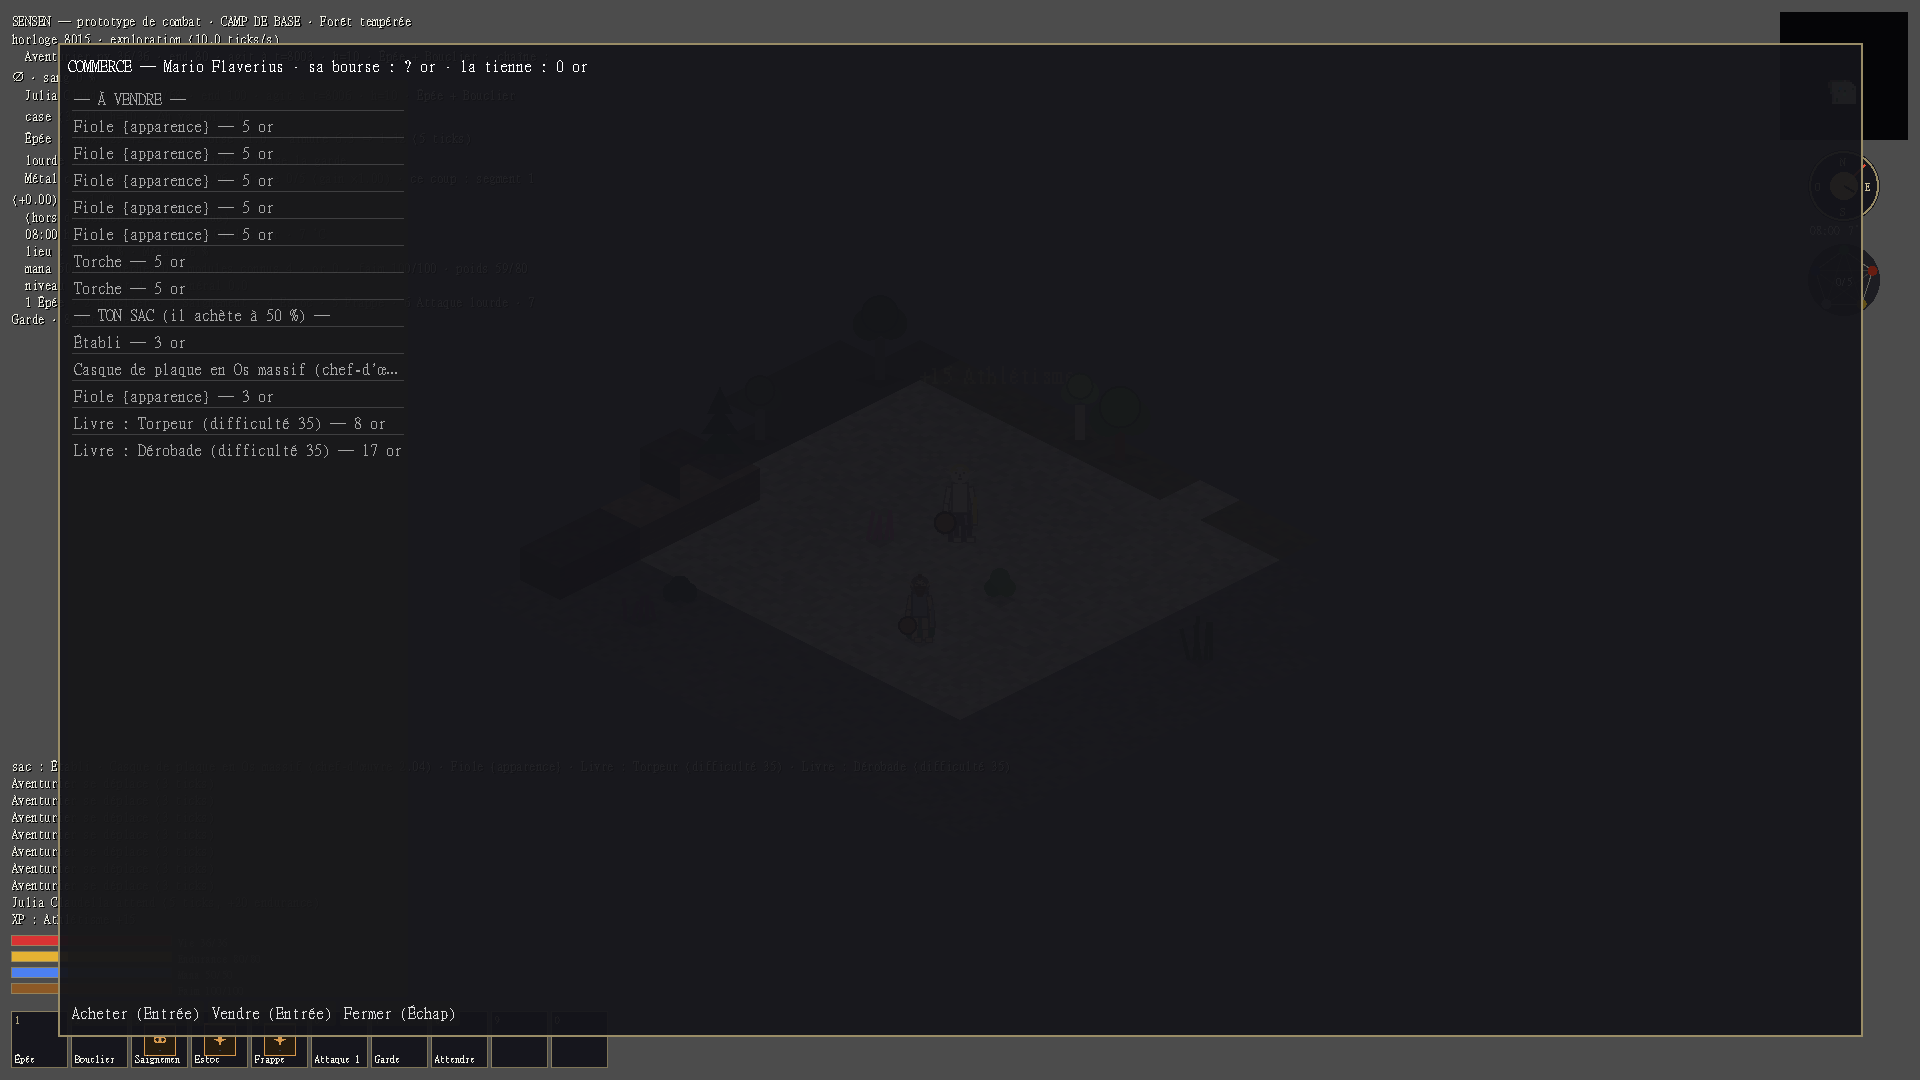
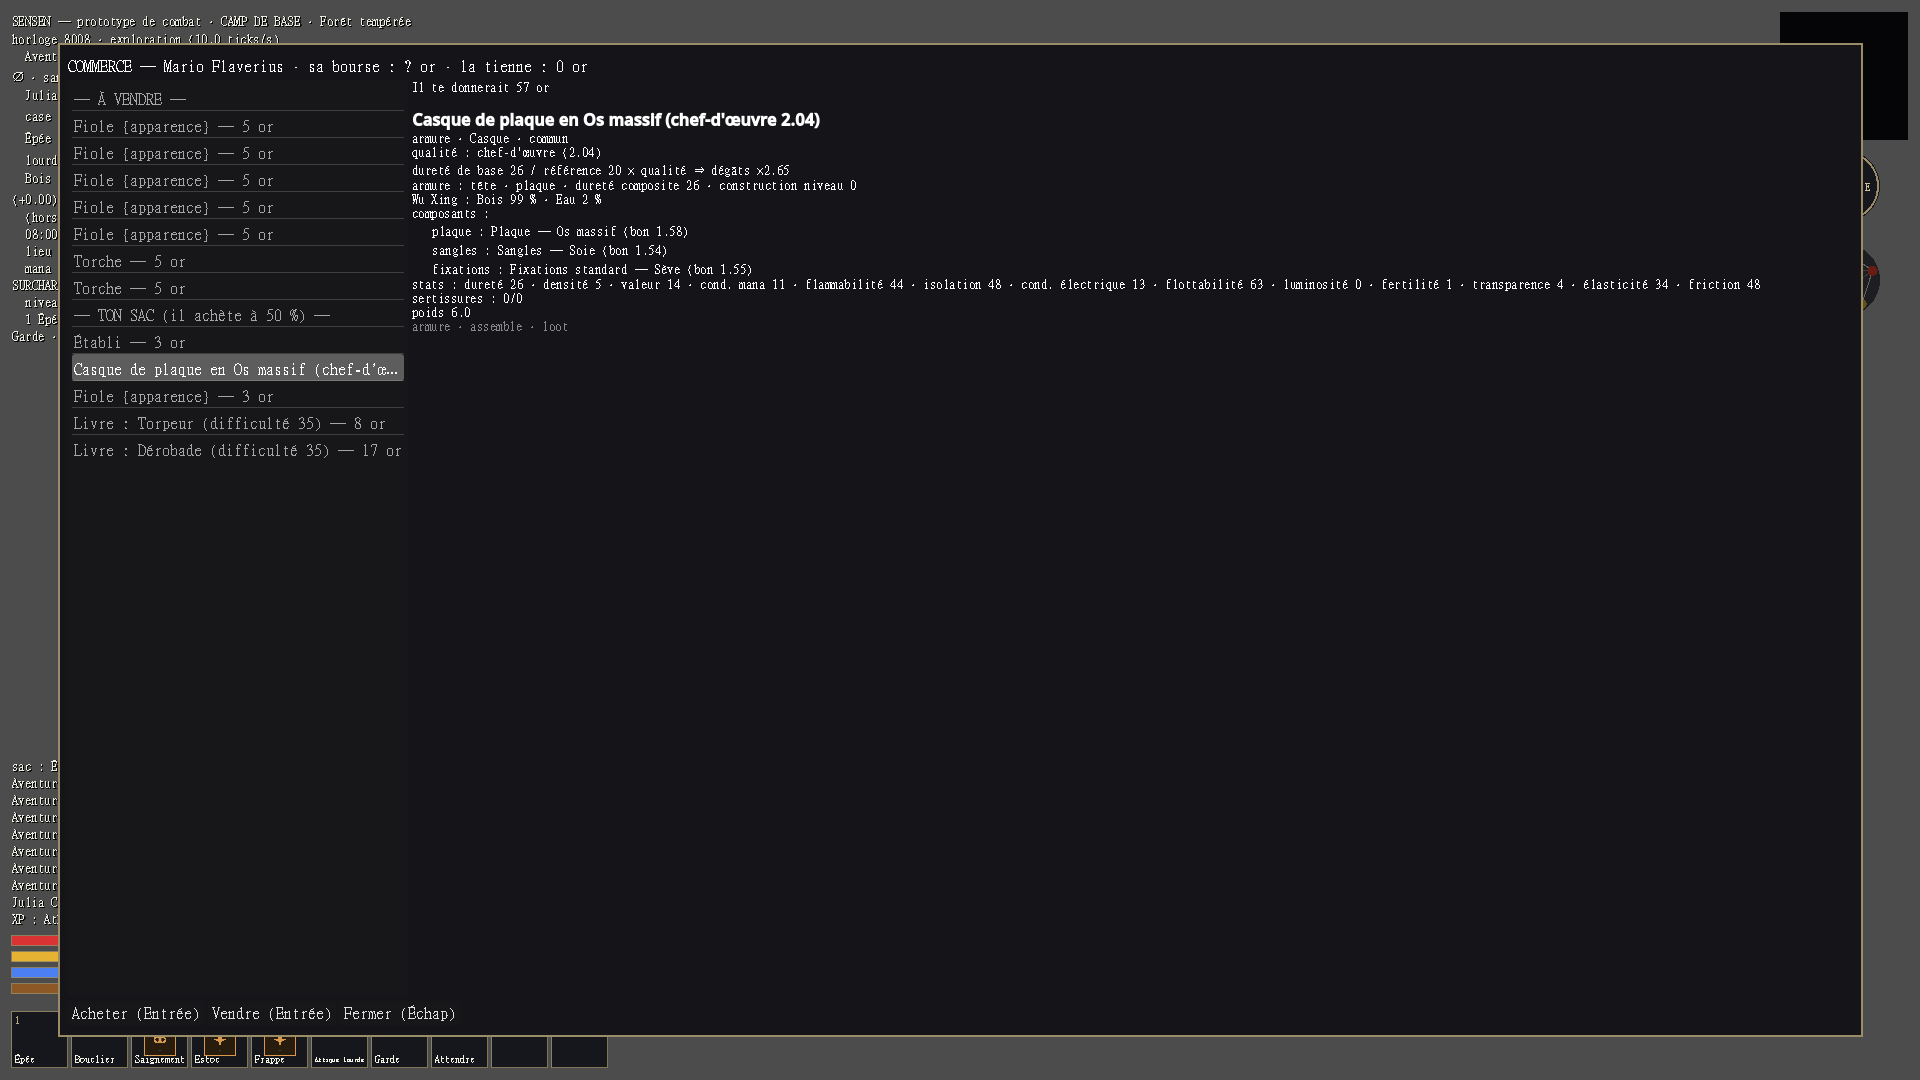
On achetait a l'aveugle, et un ecran inconnu s'ouvrait vide sous un titre faux
Les entrees achat et vente manquaient dans _montrer_detail : les deux
tiers droits de la boutique restaient noirs et on payait 17 or un livre
sans rien savoir de lui. La boutique etait aussi le seul ecran d'objets
a ne pas montrer le Wu Xing, contre ce que dit le point 65.

Et « --ecran composeur » (l'ecran s'appelle composer) ouvrait le panneau
vide sous le titre du dernier ecran construit, sans rien signaler : le
match a desormais une branche par defaut qui referme et push_error.

diff --git a/docs/08 - Technique/Écrans d'interface.md b/docs/08 - Technique/Écrans d'interface.md
@@ -145,6 +145,14 @@ Inventaire+équipement (avec poids), Craft (recettes des stations à portée, [[
 > Deuxième écran du point 67, trouvé en ouvrant l'inventaire dans une fenêtre de 1280 × 800 : l'en-tête de la liste était **illisible**, « Type Combat 4.Qual(Général 0.Qids Qté ». La fiche du porteur (six stats, quatre jauges, charge, or, niveaux dérivés) dessine **246 pixels** de contenu dans un cadre déclaré à **210** : les trois dernières lignes tombaient par-dessus la ligne d'en-tête du sac. Sa hauteur minimale est désormais **calculée** à partir des lignes qu'elle dessine (`hauteur_requise()`, un seul endroit qui fait foi) et le cadre est `clip_contents` — un débordement ne peut plus mordre sur ce qui suit. Le fond du panneau passe aussi à l'opaque : à 0,94 le décor transparaissait sous les lignes du sac.
 
 
+> [!bug] Corrigé le 2026-09-01 — un nom d'écran inconnu ouvrait un panneau vide sous un titre faux
+> Trouvé en demandant `capture.tscn -- --ecran composeur` : l'écran s'appelle **`composer`**, pas `composeur`. Au lieu de ne rien faire, `ouvrir()` affichait le panneau, `rafraichir()` ne trouvait aucune branche dans son `match`, et l'écran restait **vide sous le titre du dernier écran construit** — « CRÉATION DU MONDE » suivi de rien. Une faute de frappe dans une recette de capture produisait donc une image plausible mais fausse, et rien ne le signalait. Le `match` a désormais une branche par défaut : l'écran se referme et le nom inconnu est signalé (`push_error`), ce qui le rend fatal en débogage comme les schémas de données.
+
+
+> [!bug] Corrigé le 2026-09-01 — on achetait à l'aveugle chez le marchand
+> L'écran de commerce n'affichait **aucun détail** : ses entrées `achat` et `vente` ne figuraient pas dans `_montrer_detail`, si bien que les deux tiers droits du panneau restaient noirs et qu'on dépensait 17 or pour un « Livre : Dérobade » sans rien savoir de lui — ni dégâts, ni poids, ni qualité. C'est aussi un écart avec le coffre : le point 65 dit que **tout objet montre son Wu Xing** sauf s'il n'est pas identifié, et la boutique était le seul écran d'objets à ne pas le faire. Le détail et le pentagramme s'affichent désormais à la sélection, à l'achat comme à la vente, avec la ligne de prix (ce qu'il demande, ou ce qu'il te donne).
+
+
 ## Liens
 - **Dépend de** : [[Direction artistique]], [[Localisation]]
 - **Alimente** : [[Combat tactique sur grille]], [[Craft compositionnel]], [[Habitat des PNJ]], [[Entretien et taxes]]
